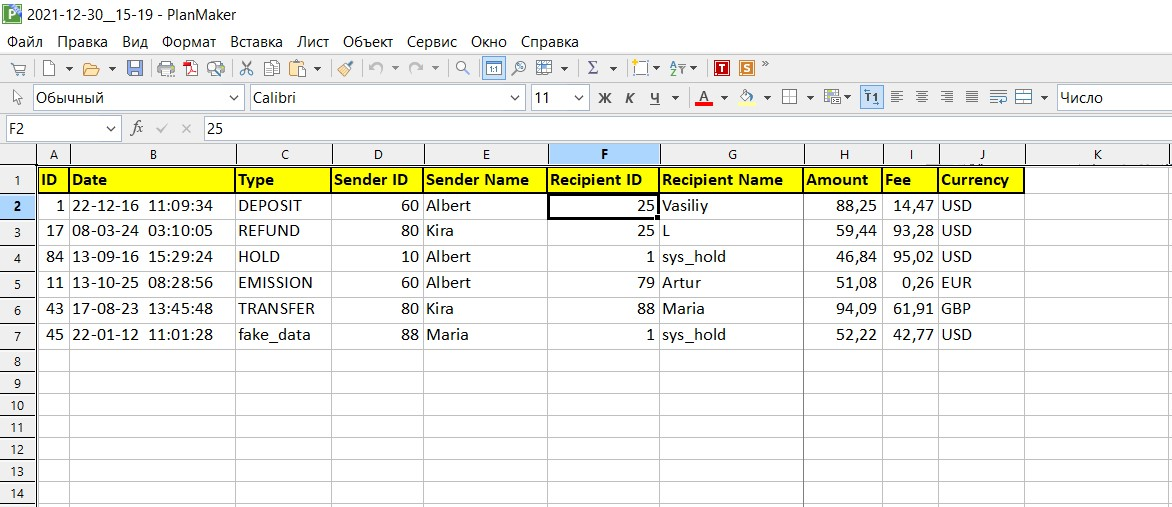
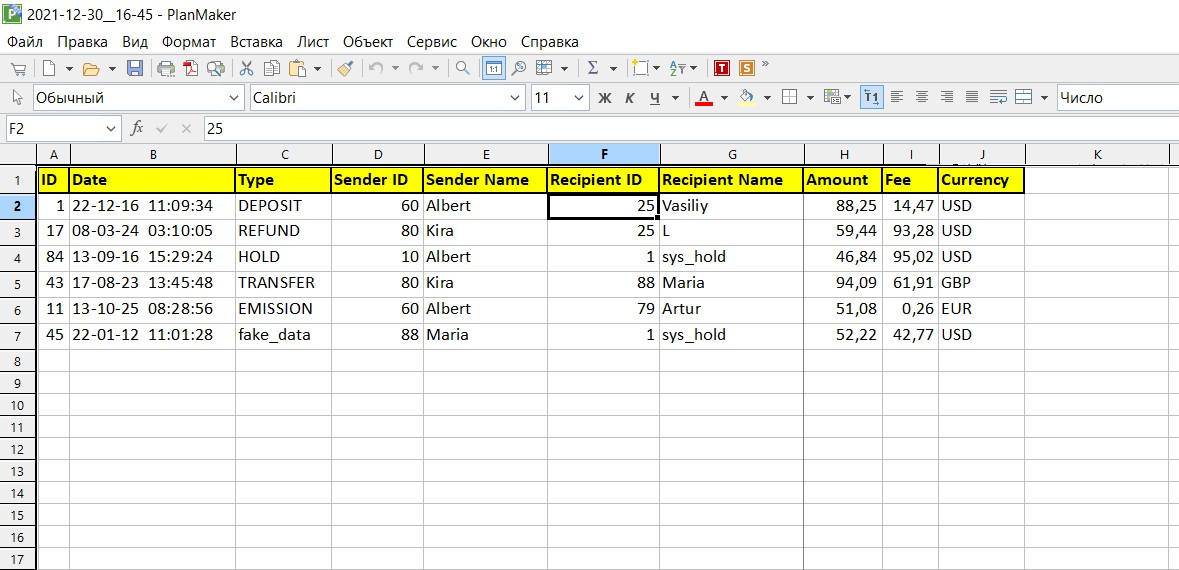
save draft #15

Changed region(s): [[0.0, 0.0, 1.0, 1.0]]

diff --git a/src/main/java/org/converter/servise/ConvertToExel.java b/src/main/java/org/converter/servise/ConvertToExel.java
@@ -9,9 +9,11 @@ import org.converter.model.Deposit;
 import java.io.FileNotFoundException;
 import java.io.FileOutputStream;
 import java.io.IOException;
+import java.text.DateFormat;
+import java.text.ParseException;
+import java.text.SimpleDateFormat;
 import java.time.LocalDateTime;
-import java.util.HashMap;
-import java.util.Map;
+import java.util.*;
 
 /**
  * Класс конвертирует данный из хранилица данных объектов POJO в EXEL файл по указанному адресу,
@@ -90,7 +92,9 @@ public class ConvertToExel {
             cell.setCellStyle(headerCellStyle);
         }
 
-        for (var datatype : depositMap.values()) {
+        var map2 = onOrderDate(depositMap);
+
+        for (var datatype : map2.values()) {
             Row row = sheet.createRow(rowNum++); // строка
             int colNum = 0;
 
@@ -220,5 +224,46 @@ public class ConvertToExel {
         for (int i = 0; i < stringMap.size(); i++) {
             sheet.autoSizeColumn(i, true);
         }
+    }
+
+    public List<String> port(List<String> datestring) {
+        datestring.sort(new Comparator<String>() {
+            DateFormat f = new SimpleDateFormat("dd-MM-yy  hh:mm:ss");
+
+            @Override
+            public int compare(String o1, String o2) {
+                try {
+                    return f.parse(o1).compareTo(f.parse(o2));
+                } catch (ParseException e) {
+                    throw new IllegalArgumentException(e);
+                }
+            }
+        });
+        return datestring;
+    }
+
+    /**
+     * метод осуществляет упорядочевание списка Объектов передаваемых в Exel по дате время
+     * @param map Объектов для парсинга в Exel file
+     * @return Map<Integer, Deposit> onOrder dateTime
+     */
+    private Map<Integer, Deposit> onOrderDate(Map<Integer, Deposit> map) {
+
+        Map<Integer, Deposit> rsl = new HashMap<>();
+        List<String> stringList = new ArrayList<>();
+        for (Deposit depo : map.values()) {
+            stringList.add(timeRevers(depo.getDate(), depo.getTime()));
+        }
+        stringList = port(stringList);
+        System.out.println(stringList);
+
+        for (int i = 0; i < stringList.size(); i++) {
+            for (Deposit reto : map.values()) {
+                if (stringList.get(i).equals(timeRevers(reto.getDate(), reto.getTime()))) {
+                    rsl.put(i + 1, reto);
+                }
+            }
+        }
+        return rsl;
     }
 }

diff --git a/README.md b/README.md
@@ -4,7 +4,7 @@ simple converter json to exel file
 Проект представляет из себя простой конвертер из JSON в Exel file.
 Описание задания для конвертирования содержится в файле task.xml
 В корневом каталоге проекта приложен сам файл JSON exampleTZ.json
-а также file Exel 2021-12-30__15-19.xlsx
+а также file Exel 2021-12-30__16-55.xlsx
 
 - Имя файла соответствовeт времени создания файла:
  yyyy-MM-dd__HH-mm.xlsx - паттерн названия файла.
@@ -22,7 +22,7 @@ simple converter json to exel file
   - где расположен файл Json
   - куда сохранять файл .xlsx Exel file
 
-Итоговый вид файла после конвертации:
+Итоговый вид файла после конвертации, отсортирован по дате и времени:
 
 ![Image of Arch](https://github.com/SlartiBartFast-art/json_to_exel/blob/develop/image/Screenshot_5.jpg)
 
